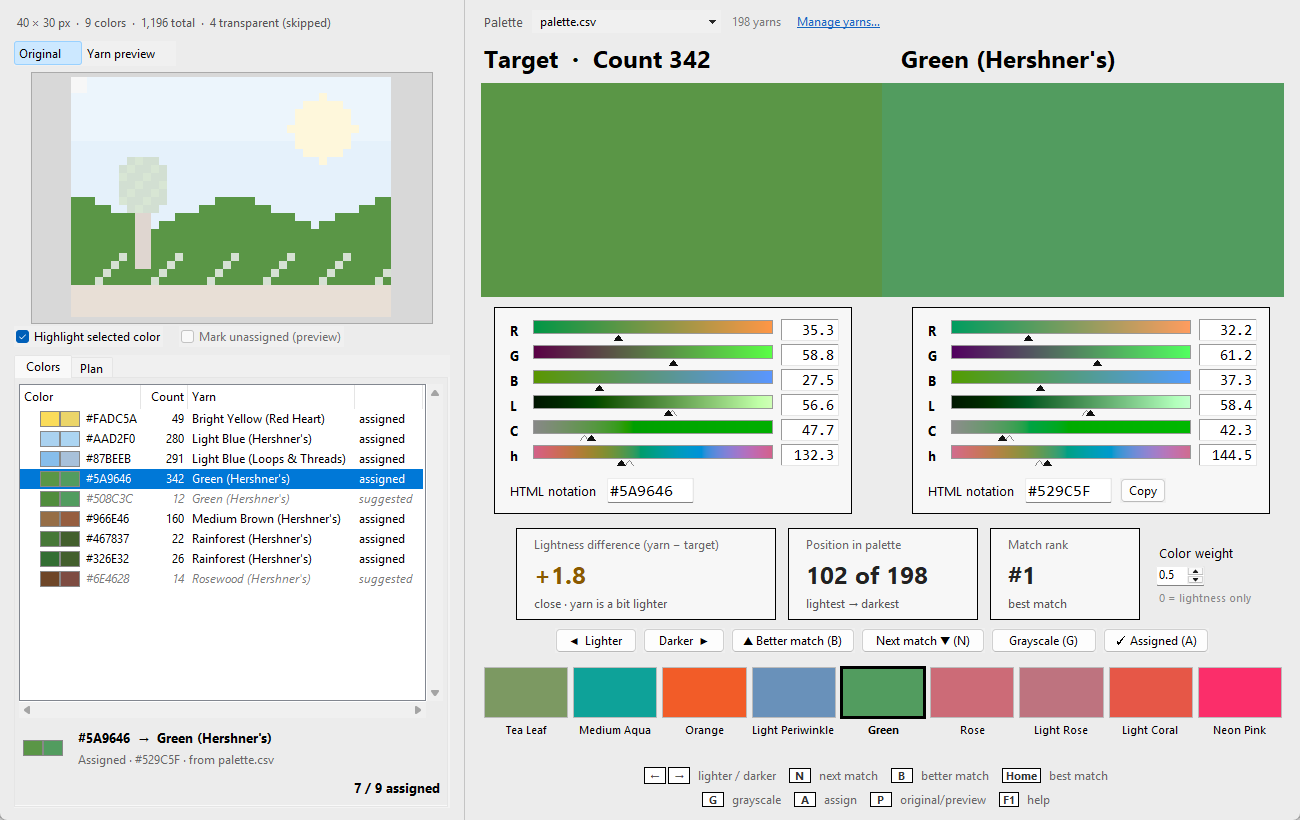
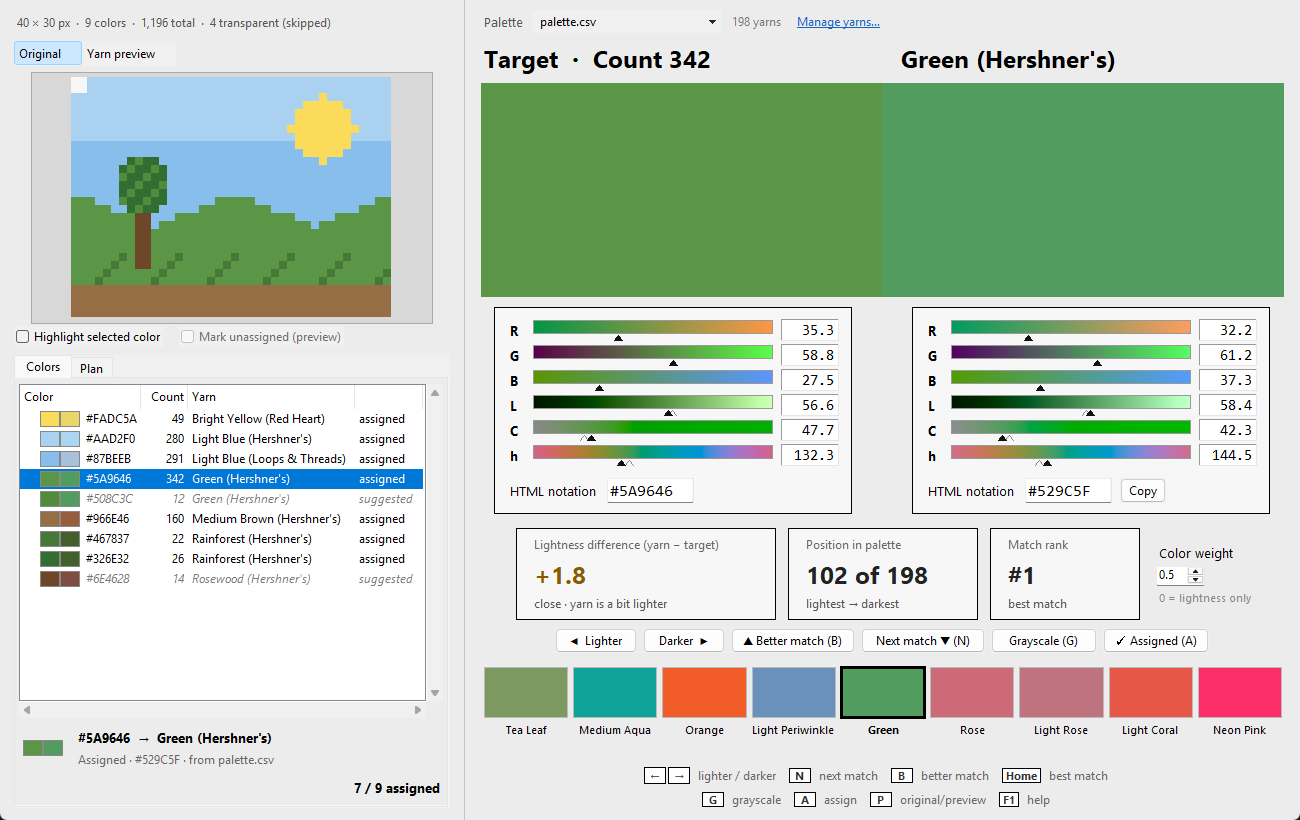
Highlight selected color off by default; screenshots retaken

Changed region(s): [[0.0308, 0.0915, 0.3077, 0.3963], [0.0, 0.3963, 0.0308, 0.4268]]

diff --git a/src/latchwork/help.py b/src/latchwork/help.py
@@ -89,7 +89,7 @@ Pixel art is more vivid than any yarn; high weights chase colorfulness and light
 - Home: best match (#1).
 - A: assign the yarn on screen to the selected color; press again to undo.
 - G: grayscale (judge lightness alone).
-- P: sidebar image: original / yarn preview (assigned yarns, and suggested yarns for unassigned colors; Mark unassigned stripes those). The selected color shows the yarn currently on screen, live as you step, so you can judge it in the whole picture; nothing changes until you Assign. Turn off Highlight selected color to see it without the fading.
+- P: sidebar image: original / yarn preview (assigned yarns, and suggested yarns for unassigned colors; Mark unassigned stripes those). The selected color shows the yarn currently on screen, live as you step, so you can judge it in the whole picture; nothing changes until you Assign. Highlight selected color (off by default) fades everything else, to show where that color is.
 - Enter or Esc: leave the hex field.
 - Typing a hex into the yarn's HTML notation box jumps to the yarn with that color; if no yarn matches, the box resets when you leave it.
 - Ctrl+N new project, Ctrl+O open project, Ctrl+E export pattern, Ctrl+P manage yarns.

diff --git a/src/latchwork/project_panel.py b/src/latchwork/project_panel.py
@@ -99,7 +99,7 @@ class ProjectPanel(tk.Frame):
         self.canvas.bind("<Button-1>", self.on_image_click)
         opts = tk.Frame(c, bg=BG)
         opts.pack(fill="x")
-        self.highlight = tk.BooleanVar(value=True)
+        self.highlight = tk.BooleanVar(value=False)
         ttk.Checkbutton(opts, text="Highlight selected color", variable=self.highlight,
                         command=self.render_image).pack(side="left")
         self.mark_unassigned = tk.BooleanVar(value=False)
